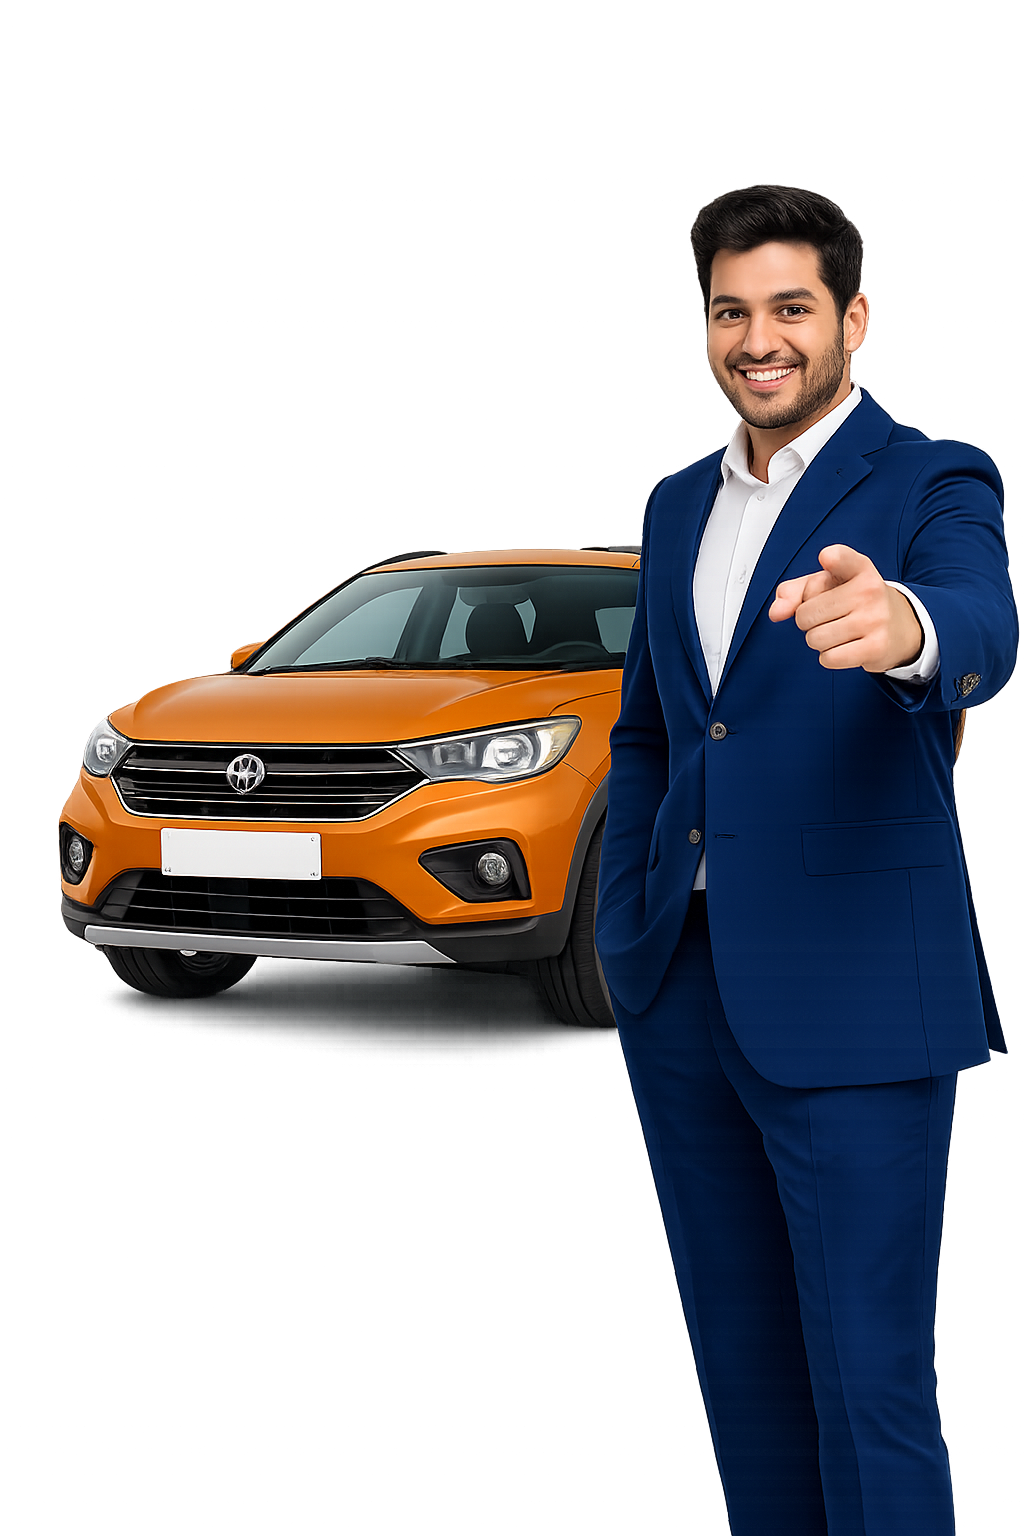
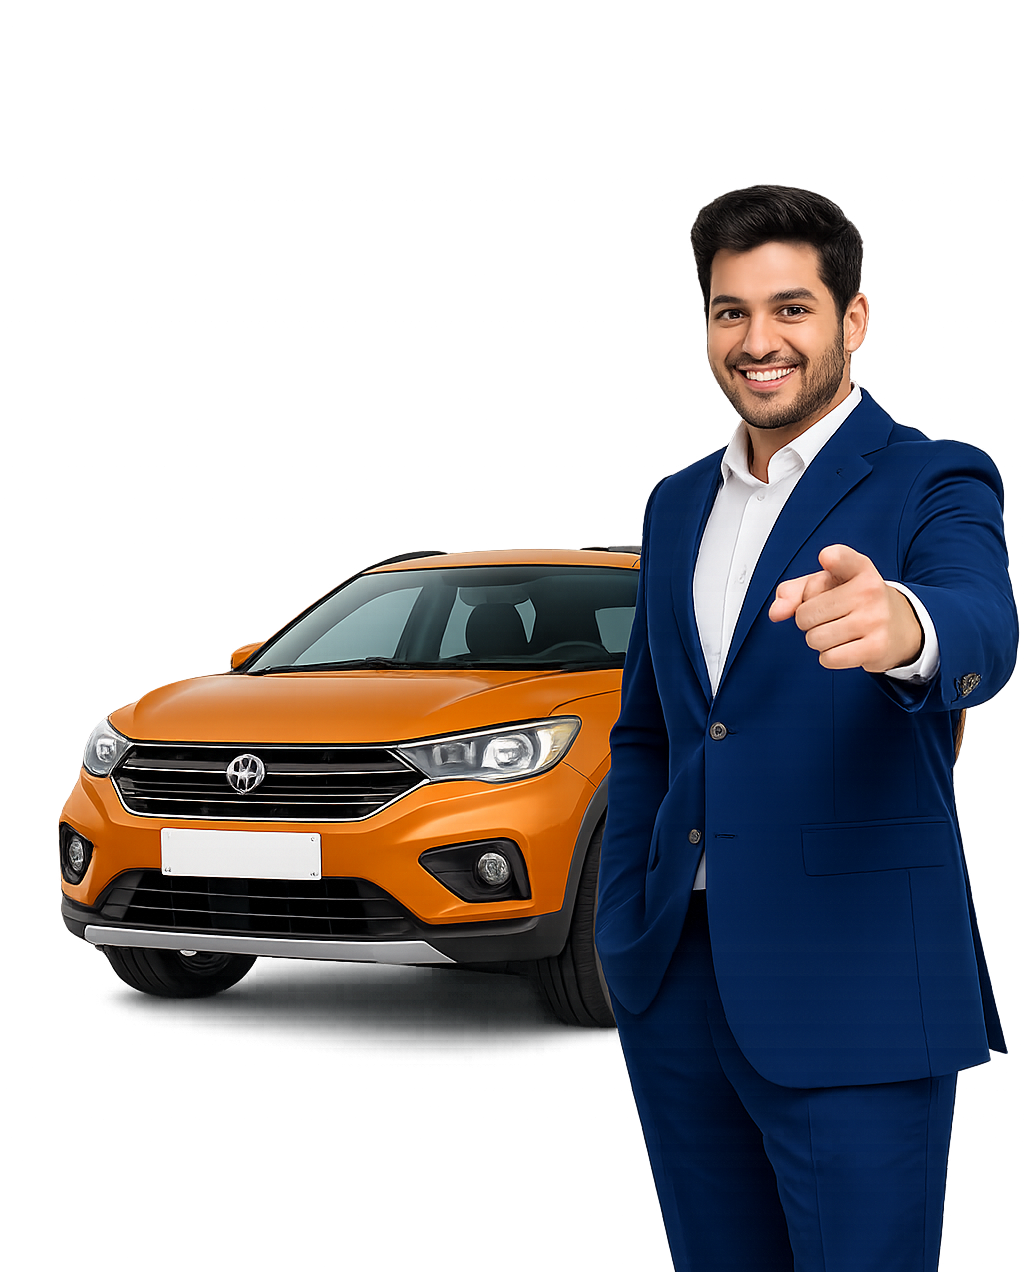
done

diff --git a/app/page.tsx b/app/page.tsx
@@ -127,7 +127,7 @@ export default function Home() {
           <div className="flex flex-col lg:grid lg:grid-cols-2 gap-8 lg:gap-12 items-center">
             
             {/* Left Content */}
-            <div className="w-full space-y-4 sm:space-y-6 text-center lg:text-left " >
+            <div className="w-full space-y-4 sm:space-y-6 text-center lg:text-left mt-0 lg:mt-[-135px]" >
               <h1 className="text-3xl sm:text-4xl lg:text-5xl font-bold text-gray-900 leading-tight">
                 Get Loan Approved in{" "}
                 <span className="text-blue-600">24 Hours in Odisha</span>
@@ -172,26 +172,7 @@ export default function Home() {
                   <p className="text-xs sm:text-sm font-semibold text-gray-800">100% Secure Process</p>
                 </div>
               </div>
- {/* Trust Badge */}
-        <div className="max-w-7xl mx-auto px-4 sm:px-6 lg:px-8 mt-2 sm:mt-12">
-          <div className="bg-white/90 backdrop-blur-sm rounded-2xl p-4 sm:p-6 shadow-lg border border-gray-100">
-            <div className="flex flex-col sm:flex-row items-center justify-between gap-3 sm:gap-4">
-              <p className="text-gray-800 font-semibold text-center sm:text-left text-sm sm:text-base">Trusted by 10,000+ Customers Across Odisha</p>
-              <div className="flex items-center space-x-2 sm:space-x-3 bg-gray-50 rounded-lg px-3 sm:px-4 py-2">
-                <span className="text-lg sm:text-xl font-bold text-blue-600">Google</span>
-                <div className="flex items-center">
-                  <span className="font-bold text-gray-800 mr-1 sm:mr-2 text-sm sm:text-base">4.8</span>
-                  <div className="flex text-yellow-400">
-                    {[...Array(5)].map((_, i) => (
-                      <Star key={i} className="w-3 h-3 sm:w-4 sm:h-4 fill-current" />
-                    ))}
-                  </div>
-                  <span className="text-gray-600 text-xs sm:text-sm ml-1 sm:ml-2">(1200+ Reviews)</span>
-                </div>
-              </div>
-            </div>
-          </div>
-        </div>
+
           
             </div>
 
@@ -199,7 +180,7 @@ export default function Home() {
             <div className="w-full relative lg:h-[600px] flex flex-col items-center lg:block">
               
               {/* SM: Car Image shown above form, LG: Absolute positioned */}
-              <div className="lg:absolute lg:right-92 lg:bottom-10 lg:w-110 w-48 sm:w-64 mb-4 lg:mb-0 lg:z-10 order-1 lg:order-2">
+              <div className="lg:absolute lg:right-92 lg:bottom-39 lg:w-110 w-48 sm:w-64 mb-4 lg:mb-0 lg:z-10 order-1 lg:order-2">
                 <img 
                   src="/homebanner/image.png" 
                   alt="Car Loan" 
@@ -276,11 +257,31 @@ export default function Home() {
             </div>
             
           </div>
+          {/* Google Review Badge - Full Width in Hero Section */}
+          <div className="max-w-7xl mx-auto px-4 sm:px-6 lg:px-8 mt-0 lg:mt-[-135px] w-full">
+          <div className="bg-white/90 backdrop-blur-sm rounded-2xl p-4 sm:p-6 shadow-lg border border-gray-100 w-full">
+            <div className="flex flex-col sm:flex-row items-center justify-between gap-3 sm:gap-4 w-full">
+              <p className="text-gray-800 font-semibold text-center sm:text-left text-sm sm:text-base">Trusted by 10,000+ Customers Across Odisha</p>
+              <div className="flex items-center space-x-2 sm:space-x-3 bg-gray-50 rounded-lg px-3 sm:px-4 py-2">
+                <span className="text-lg sm:text-xl font-bold text-blue-600">Google</span>
+                <div className="flex items-center">
+                  <span className="font-bold text-gray-800 mr-1 sm:mr-2 text-sm sm:text-base">4.8</span>
+                  <div className="flex text-yellow-400">
+                    {[...Array(5)].map((_, i) => (
+                      <Star key={i} className="w-3 h-3 sm:w-4 sm:h-4 fill-current" />
+                    ))}
+                  </div>
+                  <span className="text-gray-600 text-xs sm:text-sm ml-1 sm:ml-2">(1200+ Reviews)</span>
+                </div>
+              </div>
+            </div>
+          </div>
+        </div>
+
           
         </div>
 
-       
-
+        
         {/* Testimonials - SM: 1 column, MD: 3 columns */}
         <div className="max-w-7xl mx-auto px-4 sm:px-6 lg:px-8 mt-8 sm:mt-12">
           <div className="grid grid-cols-1 sm:grid-cols-2 md:grid-cols-3 gap-4 sm:gap-6">
@@ -426,6 +427,7 @@ export default function Home() {
               ))}
             </div>
           </div>
+          
         </div>
       </section>
 
